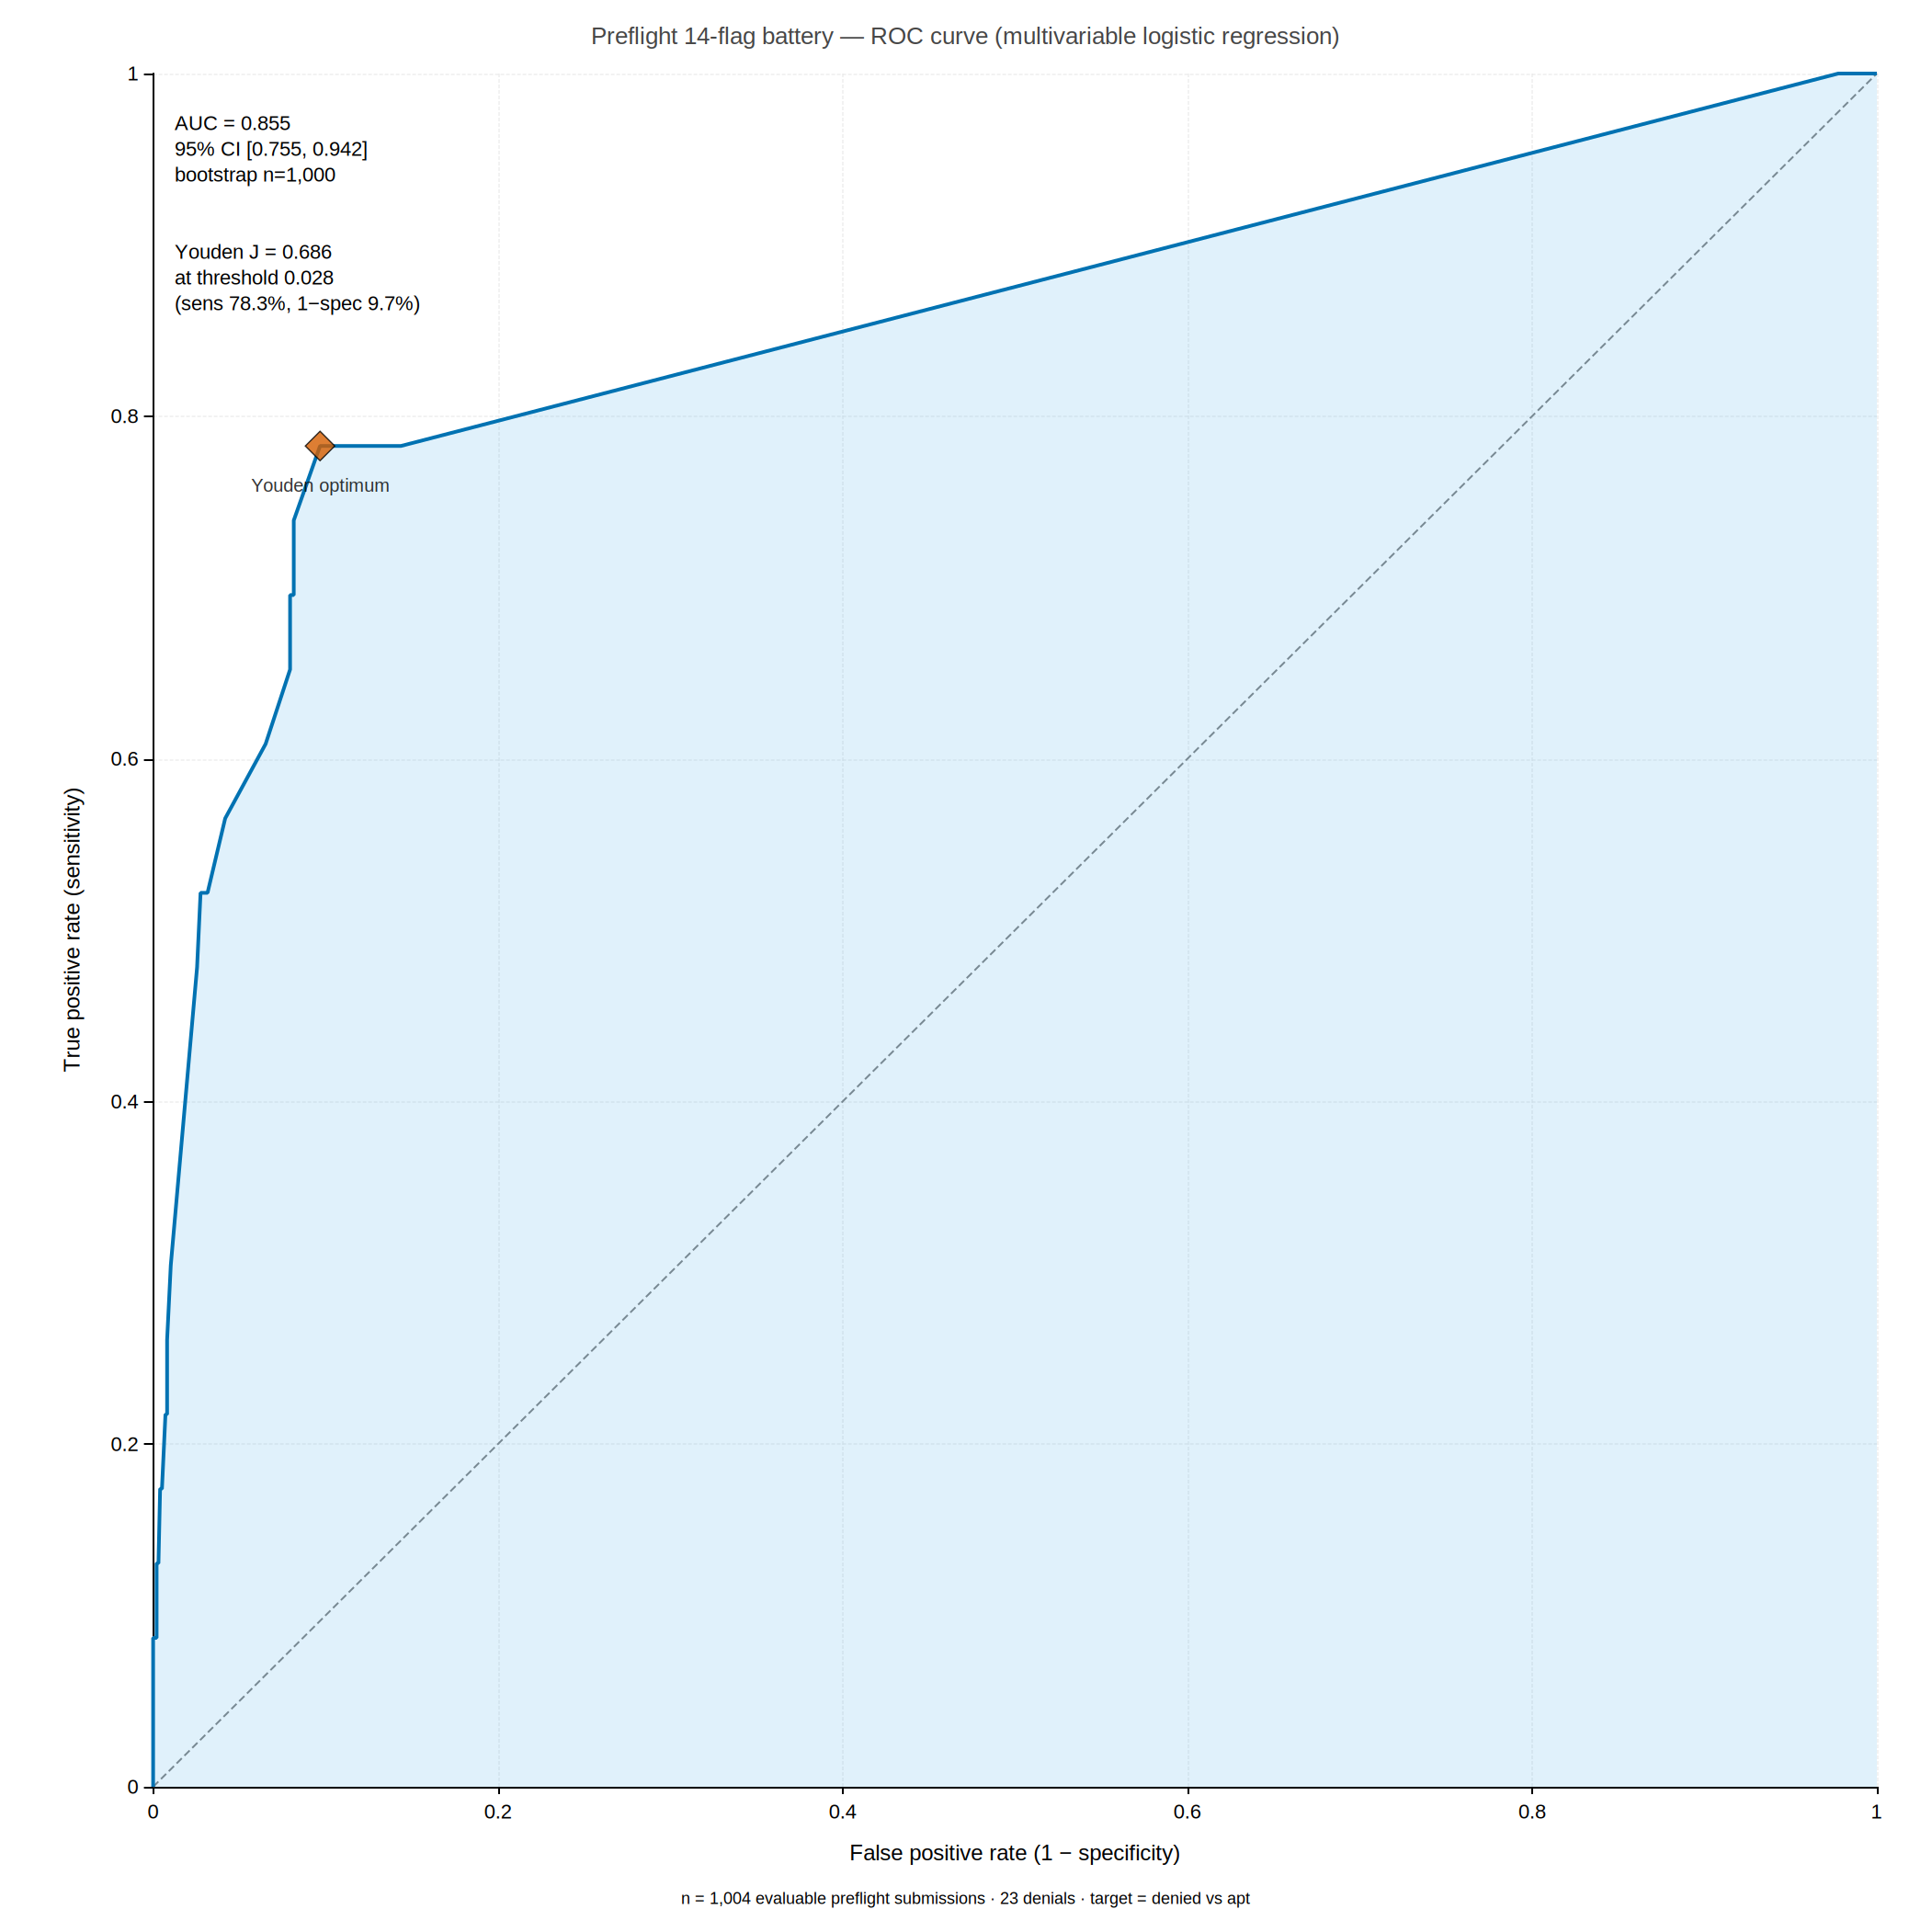
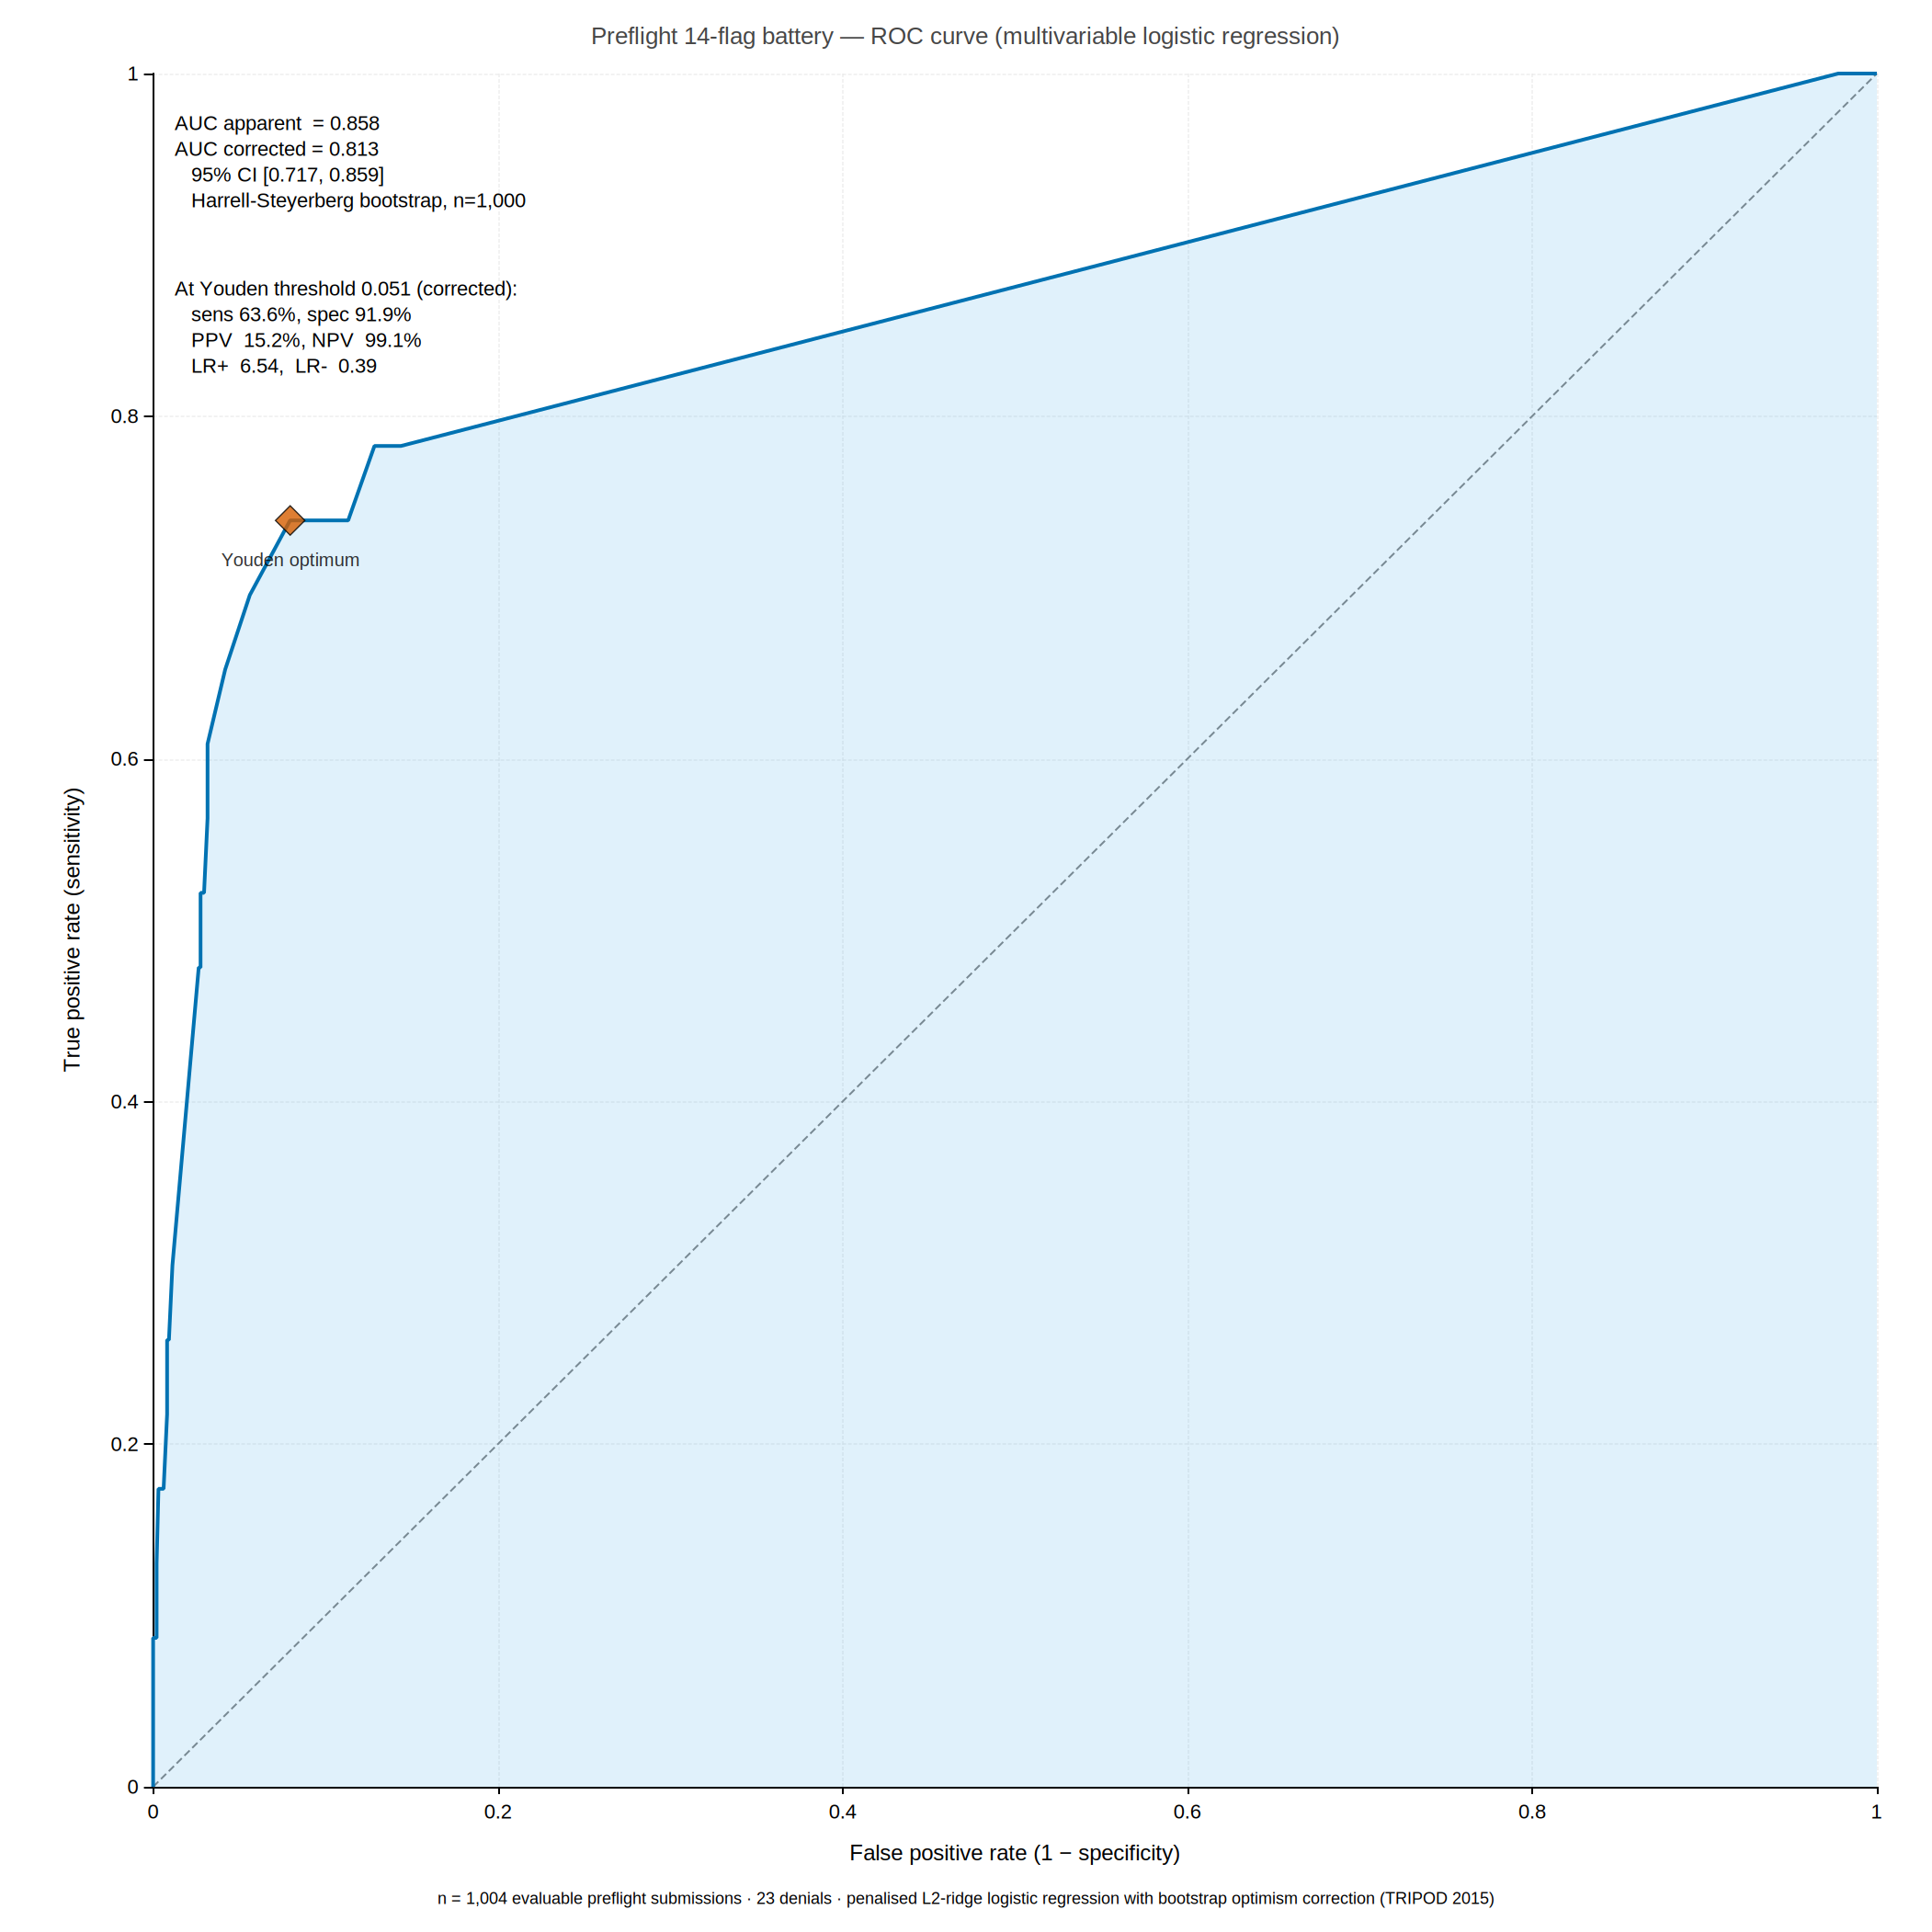
feat(figures): re-render Paper B preflight ROC with apparent + corrected metrics
Figure now displays both the apparent and the Harrell-Steyerberg
optimism-corrected AUC together with the bootstrap 95% CI, plus the
corrected operating-point characteristics (sens, spec, PPV, NPV, LR+, LR-)
at the original Youden threshold. Footer cites the TRIPOD 2015 reporting
framework. Drives from analysis/results/preflight_roc_logreg.json.

diff --git a/docs/figures/paper_b/fig_05_preflight_roc.html b/docs/figures/paper_b/fig_05_preflight_roc.html
@@ -12,7 +12,7 @@
 
 </div>
 <script>
-const opt0 = {"backgroundColor": "#ffffff", "textStyle": {"fontFamily": "Arial, Helvetica, 'Liberation Sans', sans-serif", "color": "#000000"}, "animation": false, "title": {"text": "Preflight 14-flag battery — ROC curve (multivariable logistic regression)", "left": "center", "top": 8, "textStyle": {"fontFamily": "Arial, Helvetica, 'Liberation Sans', sans-serif", "fontSize": 13, "fontWeight": "normal"}}, "graphic": [{"type": "text", "left": 95, "top": 60, "z": 50, "style": {"text": "AUC = 0.855\n95% CI [0.755, 0.942]\nbootstrap n=1,000", "font": "11px Arial,sans-serif", "fill": "#000", "lineHeight": 14, "textAlign": "left"}}, {"type": "text", "left": 95, "top": 130, "z": 50, "style": {"text": "Youden J = 0.686\nat threshold 0.028\n(sens 78.3%, 1−spec 9.7%)", "font": "11px Arial,sans-serif", "fill": "#000", "lineHeight": 14, "textAlign": "left"}}, {"type": "text", "left": "center", "bottom": 14, "z": 100, "style": {"text": "n = 1,004 evaluable preflight submissions · 23 denials · target = denied vs apt", "font": "9px Arial,sans-serif", "fill": "#000", "textAlign": "center"}}], "grid": {"left": 60, "right": 30, "top": 40, "bottom": 60, "containLabel": true}, "xAxis": {"type": "value", "min": 0, "max": 1.0, "name": "False positive rate (1 − specificity)", "nameLocation": "middle", "nameGap": 30, "nameTextStyle": {"fontFamily": "Arial, Helvetica, 'Liberation Sans', sans-serif", "fontSize": 12, "color": "#000"}, "axisLine": {"lineStyle": {"color": "#000", "width": 1}}, "axisTick": {"lineStyle": {"color": "#000", "width": 1}, "length": 4}, "axisLabel": {"fontFamily": "Arial, Helvetica, 'Liberation Sans', sans-serif", "fontSize": 11, "color": "#000"}, "splitLine": {"lineStyle": {"color": "#E5E5E5", "width": 0.5, "type": "dashed"}}}, "yAxis": {"type": "value", "min": 0, "max": 1.0, "name": "True positive rate (sensitivity)", "nameLocation": "middle", "nameGap": 38, "nameRotate": 90, "nameTextStyle": {"fontFamily": "Arial, Helvetica, 'Liberation Sans', sans-serif", "fontSize": 12, "color": "#000"}, "axisLine": {"show": true, "lineStyle": {"color": "#000", "width": 1}}, "axisTick": {"show": true, "lineStyle": {"color": "#000", "width": 1}}, "axisLabel": {"fontFamily": "Arial, Helvetica, 'Liberation Sans', sans-serif", "fontSize": 11, "color": "#000"}, "splitLine": {"lineStyle": {"color": "#E5E5E5", "width": 0.5, "type": "dashed"}}}, "series": [{"name": "Chance line", "type": "line", "data": [[0, 0], [1, 1]], "lineStyle": {"color": "#808080", "width": 1, "type": "dashed"}, "symbol": "none", "z": 3, "silent": true}, {"name": "ROC", "type": "line", "data": [[0.0, 0.0], [0.0, 0.043478260869565216], [0.0, 0.08695652173913043], [0.0020387359836901123, 0.08695652173913043], [0.0020387359836901123, 0.13043478260869565], [0.0030581039755351682, 0.13043478260869565], [0.004077471967380225, 0.17391304347826086], [0.0050968399592252805, 0.17391304347826086], [0.007135575942915392, 0.21739130434782608], [0.00815494393476045, 0.21739130434782608], [0.00815494393476045, 0.2608695652173913], [0.010193679918450561, 0.30434782608695654], [0.0254841997961264, 0.4782608695652174], [0.027522935779816515, 0.5217391304347826], [0.029561671763506627, 0.5217391304347826], [0.03160040774719674, 0.5217391304347826], [0.0417940876656473, 0.5652173913043478], [0.0652395514780836, 0.6086956521739131], [0.07951070336391437, 0.6521739130434783], [0.07951070336391437, 0.6956521739130435], [0.08154943934760449, 0.6956521739130435], [0.08154943934760449, 0.7391304347826086], [0.09683995922528033, 0.782608695652174], [0.11213047910295616, 0.782608695652174], [0.11314984709480122, 0.782608695652174], [0.12945973496432212, 0.782608695652174], [0.13149847094801223, 0.782608695652174], [0.1437308868501529, 0.782608695652174], [0.9775739041794088, 1.0], [0.9796126401630989, 1.0], [0.9847094801223242, 1.0], [0.9928644240570846, 1.0], [1.0, 1.0]], "lineStyle": {"color": "#0072B2", "width": 2.0}, "symbol": "none", "areaStyle": {"color": "#56B4E9", "opacity": 0.18}, "z": 8}, {"name": "Youden optimum", "type": "scatter", "data": [[0.09683995922528033, 0.782608695652174]], "symbol": "diamond", "symbolSize": 16, "itemStyle": {"color": "#D55E00", "borderColor": "#000", "borderWidth": 0.7}, "z": 12, "label": {"show": true, "position": "bottom", "fontFamily": "Arial, Helvetica, 'Liberation Sans', sans-serif", "fontSize": 10, "color": "#000", "formatter": "Youden optimum", "distance": 8}}]};
+const opt0 = {"backgroundColor": "#ffffff", "textStyle": {"fontFamily": "Arial, Helvetica, 'Liberation Sans', sans-serif", "color": "#000000"}, "animation": false, "title": {"text": "Preflight 14-flag battery — ROC curve (multivariable logistic regression)", "left": "center", "top": 8, "textStyle": {"fontFamily": "Arial, Helvetica, 'Liberation Sans', sans-serif", "fontSize": 13, "fontWeight": "normal"}}, "graphic": [{"type": "text", "left": 95, "top": 60, "z": 50, "style": {"text": "AUC apparent  = 0.858\nAUC corrected = 0.813\n   95% CI [0.717, 0.859]\n   Harrell-Steyerberg bootstrap, n=1,000", "font": "11px Arial,sans-serif", "fill": "#000", "lineHeight": 14, "textAlign": "left"}}, {"type": "text", "left": 95, "top": 150, "z": 50, "style": {"text": "At Youden threshold 0.051 (corrected):\n   sens 63.6%, spec 91.9%\n   PPV  15.2%, NPV  99.1%\n   LR+  6.54,  LR-  0.39", "font": "11px Arial,sans-serif", "fill": "#000", "lineHeight": 14, "textAlign": "left"}}, {"type": "text", "left": "center", "bottom": 14, "z": 100, "style": {"text": "n = 1,004 evaluable preflight submissions · 23 denials · penalised L2-ridge logistic regression with bootstrap optimism correction (TRIPOD 2015)", "font": "9px Arial,sans-serif", "fill": "#000", "textAlign": "center"}}], "grid": {"left": 60, "right": 30, "top": 40, "bottom": 60, "containLabel": true}, "xAxis": {"type": "value", "min": 0, "max": 1.0, "name": "False positive rate (1 − specificity)", "nameLocation": "middle", "nameGap": 30, "nameTextStyle": {"fontFamily": "Arial, Helvetica, 'Liberation Sans', sans-serif", "fontSize": 12, "color": "#000"}, "axisLine": {"lineStyle": {"color": "#000", "width": 1}}, "axisTick": {"lineStyle": {"color": "#000", "width": 1}, "length": 4}, "axisLabel": {"fontFamily": "Arial, Helvetica, 'Liberation Sans', sans-serif", "fontSize": 11, "color": "#000"}, "splitLine": {"lineStyle": {"color": "#E5E5E5", "width": 0.5, "type": "dashed"}}}, "yAxis": {"type": "value", "min": 0, "max": 1.0, "name": "True positive rate (sensitivity)", "nameLocation": "middle", "nameGap": 38, "nameRotate": 90, "nameTextStyle": {"fontFamily": "Arial, Helvetica, 'Liberation Sans', sans-serif", "fontSize": 12, "color": "#000"}, "axisLine": {"show": true, "lineStyle": {"color": "#000", "width": 1}}, "axisTick": {"show": true, "lineStyle": {"color": "#000", "width": 1}}, "axisLabel": {"fontFamily": "Arial, Helvetica, 'Liberation Sans', sans-serif", "fontSize": 11, "color": "#000"}, "splitLine": {"lineStyle": {"color": "#E5E5E5", "width": 0.5, "type": "dashed"}}}, "series": [{"name": "Chance line", "type": "line", "data": [[0, 0], [1, 1]], "lineStyle": {"color": "#808080", "width": 1, "type": "dashed"}, "symbol": "none", "z": 3, "silent": true}, {"name": "ROC", "type": "line", "data": [[0.0, 0.0], [0.0, 0.043478260869565216], [0.0, 0.08695652173913043], [0.0020387359836901123, 0.08695652173913043], [0.0020387359836901123, 0.13043478260869565], [0.0030581039755351682, 0.17391304347826086], [0.0061162079510703364, 0.17391304347826086], [0.00815494393476045, 0.21739130434782608], [0.00815494393476045, 0.2608695652173913], [0.009174311926605505, 0.2608695652173913], [0.011213047910295617, 0.30434782608695654], [0.026503567787971458, 0.4782608695652174], [0.027522935779816515, 0.4782608695652174], [0.027522935779816515, 0.5217391304347826], [0.029561671763506627, 0.5217391304347826], [0.03160040774719674, 0.5652173913043478], [0.03160040774719674, 0.6086956521739131], [0.0417940876656473, 0.6521739130434783], [0.05606523955147808, 0.6956521739130435], [0.07951070336391437, 0.7391304347826086], [0.08154943934760449, 0.7391304347826086], [0.09785932721712538, 0.7391304347826086], [0.11314984709480122, 0.7391304347826086], [0.12844036697247707, 0.782608695652174], [0.13149847094801223, 0.782608695652174], [0.1437308868501529, 0.782608695652174], [0.9775739041794088, 1.0], [0.9796126401630989, 1.0], [0.9847094801223242, 1.0], [0.9928644240570846, 1.0], [1.0, 1.0]], "lineStyle": {"color": "#0072B2", "width": 2.0}, "symbol": "none", "areaStyle": {"color": "#56B4E9", "opacity": 0.18}, "z": 8}, {"name": "Youden optimum", "type": "scatter", "data": [[0.07951070336391437, 0.7391304347826086]], "symbol": "diamond", "symbolSize": 16, "itemStyle": {"color": "#D55E00", "borderColor": "#000", "borderWidth": 0.7}, "z": 12, "label": {"show": true, "position": "bottom", "fontFamily": "Arial, Helvetica, 'Liberation Sans', sans-serif", "fontSize": 10, "color": "#000", "formatter": "Youden optimum", "distance": 8}}]};
 const ch0 = echarts.init(document.getElementById('c0'), null, { renderer: 'svg', width: 1051, height: 1051 });
 ch0.setOption(opt0);
 ch0.resize({width: 1051, height: 1051});

diff --git a/docs/figures/paper_b/fig_05_preflight_roc.py b/docs/figures/paper_b/fig_05_preflight_roc.py
@@ -35,14 +35,16 @@ from render import render
 ROC = json.loads((ROOT.parent / "analysis" / "results" / "preflight_roc_logreg.json").read_text())
 fpr = ROC["fpr"]
 tpr = ROC["tpr"]
-auc = ROC["auc"]
-auc_lo = ROC["auc_ci_lo_95"]
-auc_hi = ROC["auc_ci_hi_95"]
-youden_fpr = ROC["youden_fpr"]
-youden_tpr = ROC["youden_tpr_sensitivity"]
+auc_apparent = ROC["auc_apparent"]
+auc_corrected = ROC["auc_corrected"]
+auc_lo = ROC["auc_ci_lo_95_corrected"]
+auc_hi = ROC["auc_ci_hi_95_corrected"]
+youden_fpr = ROC["youden_fpr_apparent"]
+youden_tpr = ROC["youden_tpr_sensitivity_apparent"]
 youden_thr = ROC["youden_threshold"]
 n_eval = ROC["n_eval"]
 n_denied = ROC["n_denied"]
+m_corrected = ROC["multivariable_at_youden_corrected"]
 
 # Build series points
 roc_points = [[f, t] for f, t in zip(fpr, tpr)]
@@ -60,16 +62,26 @@ opt = {
         # AUC annotation (top-left of plot area)
         {"type": "text", "left": 95, "top": 60, "z": 50,
          "style": {
-             "text": f"AUC = {auc:.3f}\n95% CI [{auc_lo:.3f}, {auc_hi:.3f}]\nbootstrap n=1,000",
+             "text": (
+                 f"AUC apparent  = {auc_apparent:.3f}\n"
+                 f"AUC corrected = {auc_corrected:.3f}\n"
+                 f"   95% CI [{auc_lo:.3f}, {auc_hi:.3f}]\n"
+                 f"   Harrell-Steyerberg bootstrap, n=1,000"
+             ),
              "font": "11px Arial,sans-serif",
              "fill": "#000",
              "lineHeight": 14,
              "textAlign": "left",
          }},
-        # Youden annotation
-        {"type": "text", "left": 95, "top": 130, "z": 50,
+        # Operating-point annotation (corrected)
+        {"type": "text", "left": 95, "top": 150, "z": 50,
          "style": {
-             "text": f"Youden J = {youden_tpr - youden_fpr:.3f}\nat threshold {youden_thr:.3f}\n(sens {youden_tpr*100:.1f}%, 1−spec {youden_fpr*100:.1f}%)",
+             "text": (
+                 f"At Youden threshold {youden_thr:.3f} (corrected):\n"
+                 f"   sens {m_corrected['sensitivity']*100:.1f}%, spec {m_corrected['specificity']*100:.1f}%\n"
+                 f"   PPV  {m_corrected['ppv']*100:.1f}%, NPV  {m_corrected['npv']*100:.1f}%\n"
+                 f"   LR+  {m_corrected['lr_pos']:.2f},  LR-  {m_corrected['lr_neg']:.2f}"
+             ),
              "font": "11px Arial,sans-serif",
              "fill": "#000",
              "lineHeight": 14,
@@ -78,7 +90,10 @@ opt = {
         # Footer note
         {"type": "text", "left": "center", "bottom": 14, "z": 100,
          "style": {
-             "text": f"n = {n_eval:,} evaluable preflight submissions · {n_denied} denials · target = denied vs apt",
+             "text": (
+                 f"n = {n_eval:,} evaluable preflight submissions · {n_denied} denials · "
+                 f"penalised L2-ridge logistic regression with bootstrap optimism correction (TRIPOD 2015)"
+             ),
              "font": "9px Arial,sans-serif",
              "fill": "#000",
              "textAlign": "center",
@@ -145,5 +160,9 @@ result = render(
     emit_tiff=True,
 )
 print(f"Rendered: {result['png']}")
-print(f"AUC = {auc:.4f} [{auc_lo:.4f}, {auc_hi:.4f}], "
-      f"Youden J = {youden_tpr - youden_fpr:.4f} at thr={youden_thr:.4f}")
+print(f"AUC apparent  = {auc_apparent:.4f}")
+print(f"AUC corrected = {auc_corrected:.4f}  [{auc_lo:.4f}, {auc_hi:.4f}]")
+print(f"Youden threshold = {youden_thr:.4f}")
+print(f"Corrected sens={m_corrected['sensitivity']*100:.1f}% spec={m_corrected['specificity']*100:.1f}% "
+      f"PPV={m_corrected['ppv']*100:.1f}% NPV={m_corrected['npv']*100:.1f}% "
+      f"LR+={m_corrected['lr_pos']:.2f} LR-={m_corrected['lr_neg']:.2f}")